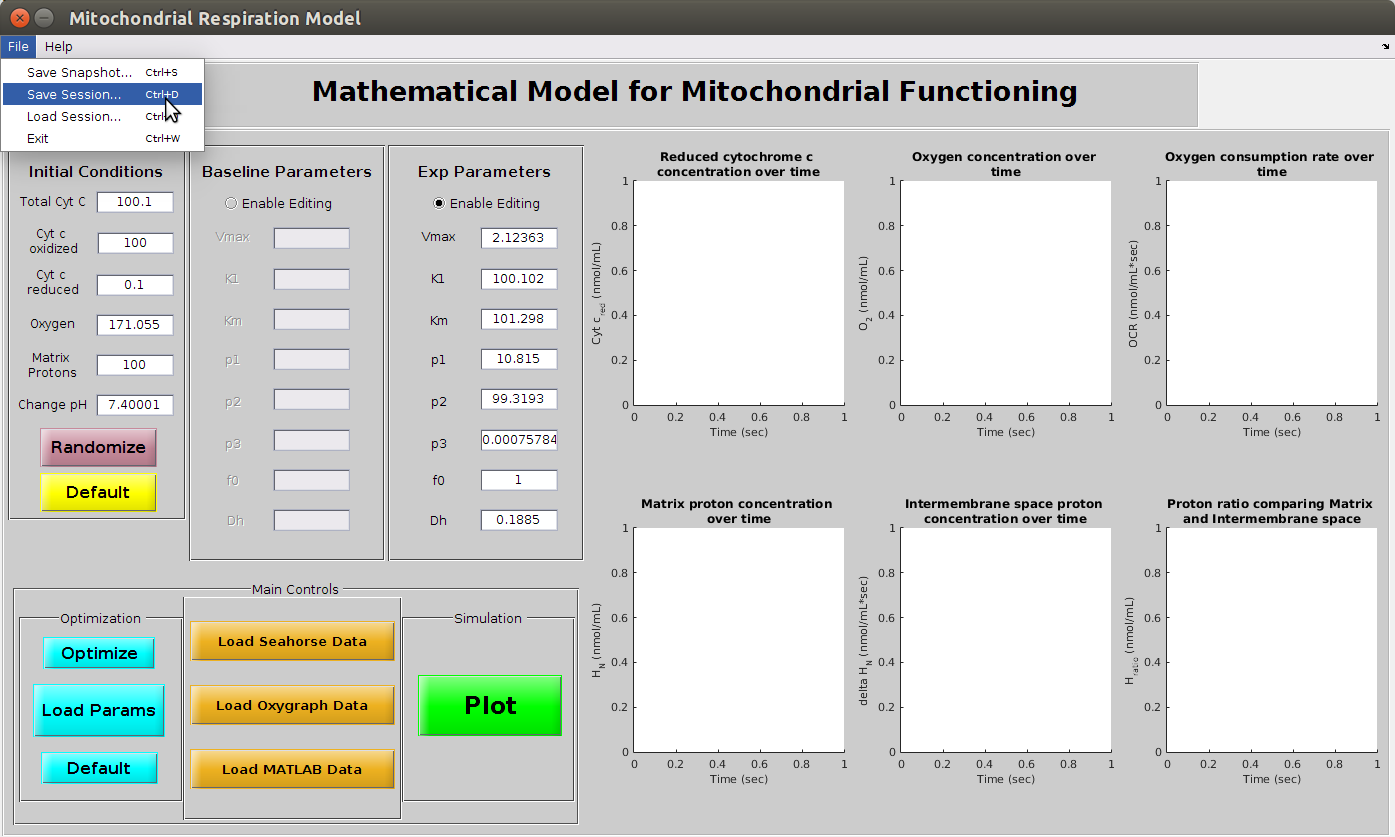
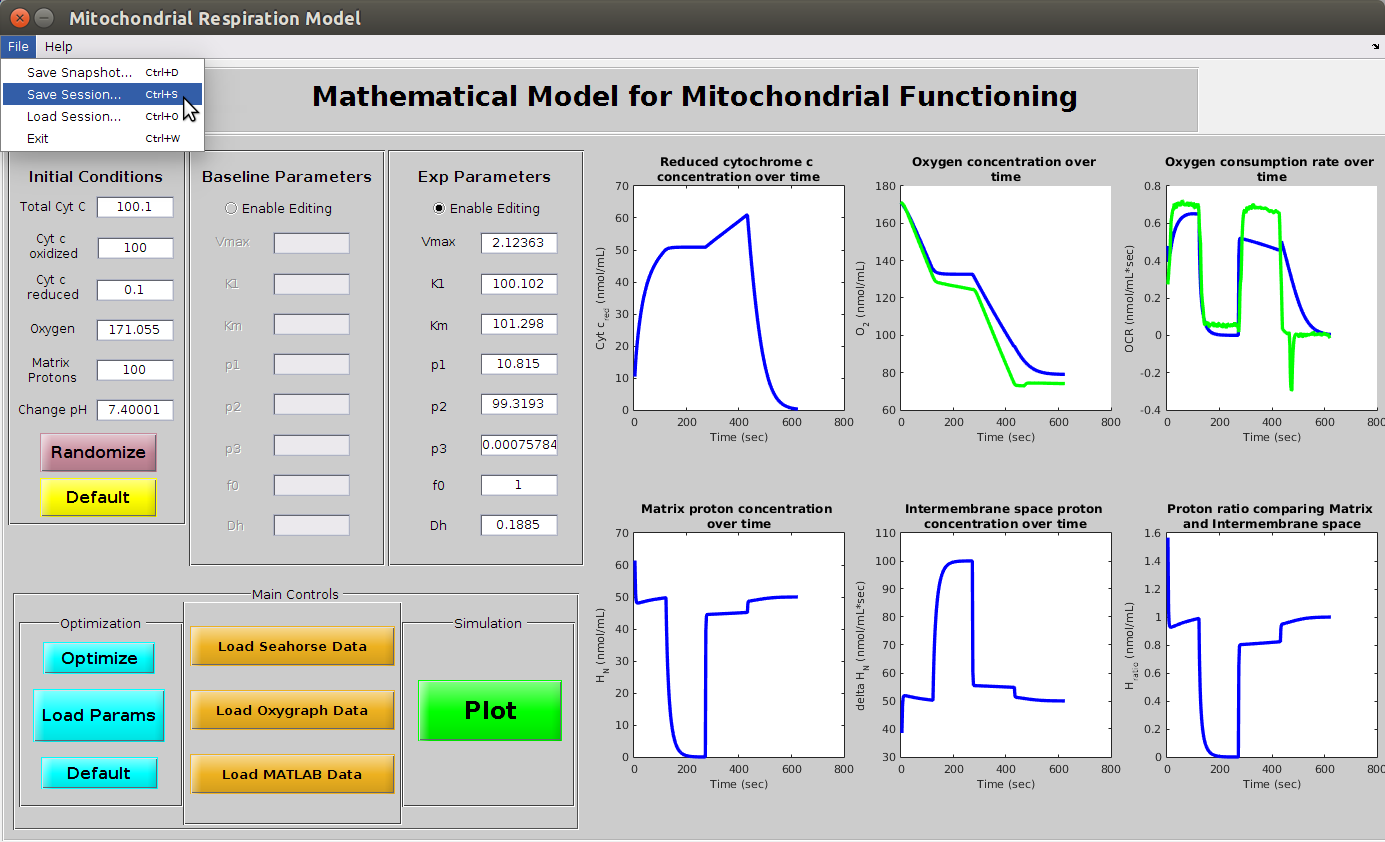
Recapture images
Recaptured images to show updated GUI for
both save snapshot and save session.

diff --git a/README.md b/README.md
@@ -86,7 +86,7 @@ after editing is finalized. Zooming in and out of the graph can also be done in 
 
 #### Save Snapshot
 
-![Save a snapshot of the GUI](/Images/guiSaveSnapshotAug25.png)
+![Save a snapshot of the GUI](/Images/guiSaveSnapshotAug31.png)
 
 In the *File* menu, there is an option for saving a snapshot of the GUI. The purpose of this is to save the current display
 of the GUI either for presentation or publication, where the graphs of each element of the system are shown along
